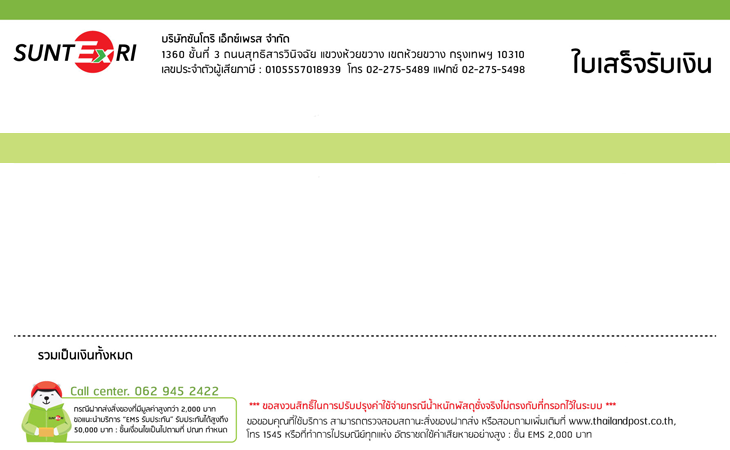
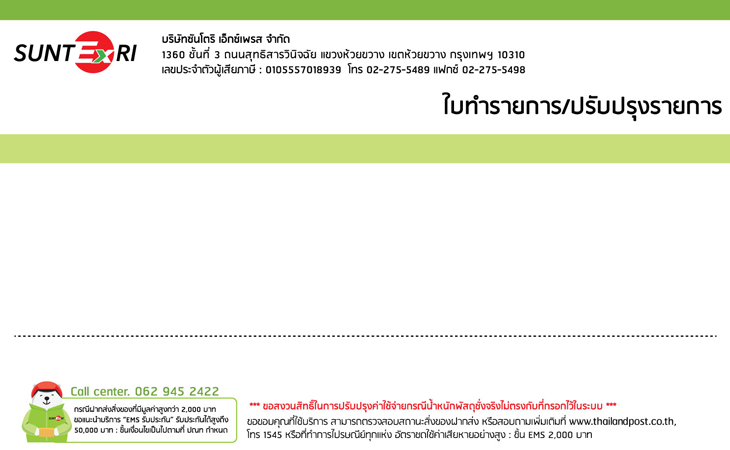
update

diff --git a/modules/mains/server/views/formBill.server.view.html b/modules/mains/server/views/formBill.server.view.html
@@ -11,6 +11,10 @@
 	<!-- Load paper.css for happy printing -->
 	<link rel="stylesheet" href="https://cdnjs.cloudflare.com/ajax/libs/paper-css/0.2.3/paper.css">
 
+	<!-- bootstrap -->
+	<link rel="stylesheet" href="https://maxcdn.bootstrapcdn.com/bootstrap/4.0.0-beta/css/bootstrap.min.css" integrity="sha384-/Y6pD6FV/Vv2HJnA6t+vslU6fwYXjCFtcEpHbNJ0lyAFsXTsjBbfaDjzALeQsN6M" crossorigin="anonymous">
+
+
 	<!-- Set page size here: A5, A4 or A3 -->
 	<!-- Set also "landscape" if you need -->
 	<style>@page { size: A4 }</style>
@@ -49,12 +53,22 @@ table, th, td {
 	<div style="background-image:url(/assets/img/Rev.png); position:absolute; left:37px; top:37px; width:730px; height:470px;" title="">
 
 		<div class="row" style="margin-top:105px">
-			<h3>RCPT # {{mains[0].rcpDocNo}}</h3>
+			<div class="col-md-3">
+				<h5>Ref # {{mains[0].rcpDocNo}}</h5>
+			</div>
+			<div class="col-md-3">
+				<h5>วันที่ {{mains[0].rcpDocNo}}</h5>
+			</div>
+			<div class="col-md-3">
+				<h5>User {{mains[0].rcpDocNo}}</h5>
+			</div>
 		</div>
-		<div class="row" style="margin-top:-10px">
-			<table style="width:100%">
+
+		<div class="row" style="margin-left:2px">
+			<table style="width:98%">
 				<tr>
 					<th>ชื่อผู้รับ</th>
+					<th>ชื่อผู้ส่ง</th>
 					<th>EMS No.</th>
 					<th>ปณ. ปลายทาง</th>
 					<th>น้ำหนัก</th>
@@ -64,6 +78,7 @@ table, th, td {
 
 				<tr>
 					<td>{{main.r_name}}</td>
+					<td>{{main.s_name}}</td>
 					<td>{{main.barcode}}</td>
 					<td>{{main.r_postcode + ' ' + main.r_ampher}}</td>
 					<td>{{main.weight}}</td>
@@ -72,9 +87,9 @@ table, th, td {
 				{% endfor %}
 			</table>
 		</div>
-		<div style="margin-top:120px">
-			<div style="margin-left:600px">
-				<h3>มูลค่า {{totalAmount}} บาท</h3>
+		<div style="margin-top:0px">
+			<div style="margin-left:500px">
+				<h5>รวมเป็นเงินทั้งหมด {{totalAmount}} บาท</h5>
 			</div>
 
 		</div>
@@ -92,6 +107,11 @@ table, th, td {
 
 </section>
 
+
+<!--bootstrap js-->
+<script src="https://code.jquery.com/jquery-3.2.1.slim.min.js" integrity="sha384-KJ3o2DKtIkvYIK3UENzmM7KCkRr/rE9/Qpg6aAZGJwFDMVNA/GpGFF93hXpG5KkN" crossorigin="anonymous"></script>
+<script src="https://cdnjs.cloudflare.com/ajax/libs/popper.js/1.11.0/umd/popper.min.js" integrity="sha384-b/U6ypiBEHpOf/4+1nzFpr53nxSS+GLCkfwBdFNTxtclqqenISfwAzpKaMNFNmj4" crossorigin="anonymous"></script>
+<script src="https://maxcdn.bootstrapcdn.com/bootstrap/4.0.0-beta/js/bootstrap.min.js" integrity="sha384-h0AbiXch4ZDo7tp9hKZ4TsHbi047NrKGLO3SEJAg45jXxnGIfYzk4Si90RDIqNm1" crossorigin="anonymous"></script>
 </body>
 
 </html>

diff --git a/modules/mains/client/controllers/mains.client.controller.js b/modules/mains/client/controllers/mains.client.controller.js
@@ -67,7 +67,7 @@ angular.module('mains').controller('MainsController', ['$scope', '$stateParams',
         $scope.invoice = Date.now();
         $scope.price = 0;
         $scope.weight = '';
-        $scope.option.name = --เลือกน้ำหนัก/เลือกขนาด--;
+//        $scope.option.name = --เลือกน้ำหนัก/เลือกขนาด--;
 //        $scope.detail = '';
         $scope.barcode = '';
       }, function (errorResponse) {
@@ -279,9 +279,9 @@ angular.module('mains').controller('MainsController', ['$scope', '$stateParams',
 
 
       $scope.selectedOption = $scope.options[0];
-      $scope.reset = function() {
-          $scope.options = {เลือกกล่องน้ำหนัก}
-      };
+//      $scope.reset = function() {
+//          $scope.options = {เลือกกล่องน้ำหนัก}
+//      };
 
 
       // Autocomplete

diff --git a/modules/recipients/client/views/list-recipients.client.view.html b/modules/recipients/client/views/list-recipients.client.view.html
@@ -84,7 +84,7 @@
               </tr>
               </thead>
               <tbody>
-              <tr class="even pointer" data-ng-repeat="recipient in recipients | pagination: (currentPage - 1) * pageSize | limitTo: pageSize | filter:searchText" data-ng-show="authentication.user._id == recipient.user._id">
+              <tr class="even pointer" data-ng-repeat="recipient in recipients | filter:searchText" data-ng-show="authentication.user._id == recipient.user._id">
                 <td ng-bind="recipient.created | date:'mediumDate'"></td>
                 <td class="list-group-item-heading" ng-bind="recipient.name"></td>
                 <td class="list-group-item-heading" ng-bind="recipient.tel"></td>

diff --git a/config/env/default.js b/config/env/default.js
@@ -3,8 +3,8 @@
 module.exports = {
   app: {
     title: 'SuntoriWebserv',
-    description: 'Full-Stack JavaScript with MongoDB, Express, AngularJS, and Node.js',
-    keywords: 'mongodb, express, angularjs, node.js, mongoose, passport',
+    description: 'เรื่องเดลิเวอรี่ ซันโตริจัดให้...',
+    keywords: 'dropoff,ส่งไปรษณีย์,ระบบส่งไปรษณีย์',
     googleAnalyticsTrackingID: process.env.GOOGLE_ANALYTICS_TRACKING_ID || 'GOOGLE_ANALYTICS_TRACKING_ID'
   },
   port: process.env.PORT || 3000,

diff --git a/modules/sends/client/views/list-sends.client.view.html b/modules/sends/client/views/list-sends.client.view.html
@@ -83,7 +83,7 @@
             </div>
           </div>
         </div>
-        <div class="col-md-4 col-sm-4 col-xs-12 profile_details" data-ng-repeat="send in sends | pagination: (currentPage - 1) * pageSize | limitTo: pageSize | filter:searchText" data-ng-show="authentication.user._id == send.user._id">
+        <div class="col-md-4 col-sm-4 col-xs-12 profile_details" data-ng-repeat="send in sends | filter:searchText" data-ng-show="authentication.user._id == send.user._id">
           <div class="well profile_view">
             <div class="col-sm-12">
               <div class="left col-xs-12">

diff --git a/modules/payment/server/controllers/payment.server.controller.js b/modules/payment/server/controllers/payment.server.controller.js
@@ -9,9 +9,9 @@ exports.request = function(req, res, next) {
     var defaultLang = 'th';
     var resultUrl1 = 'http://188.166.183.79:3000/mains';
     var resultUrl2 = 'http://188.166.183.79:3000/mains';
-    var resultUrl1 = 'http://localhost:3000/mains';
-    var resultUrl2 = 'http://localhost:3000/mains';
-    var secretKey  = 'YyzifJ5hy8qj';
+    var resultUrl1 = 'http://suntoriexpress.com/mains';
+    var resultUrl2 = 'http://suntoriexpress.com/mains';
+    var secretKey  = 'SyVSRZHCDk28';
     var stringToHash  = "";
 
     // Set Order ID

diff --git a/modules/mains/server/controllers/mains.server.controller.js b/modules/mains/server/controllers/mains.server.controller.js
@@ -6,6 +6,7 @@
 var path = require('path'),
   mongoose = require('mongoose'),
   Main = mongoose.model('Main'),
+  User = mongoose.model('User'),
   errorHandler = require(path.resolve('./modules/core/server/controllers/errors.server.controller'));
 
 /**
